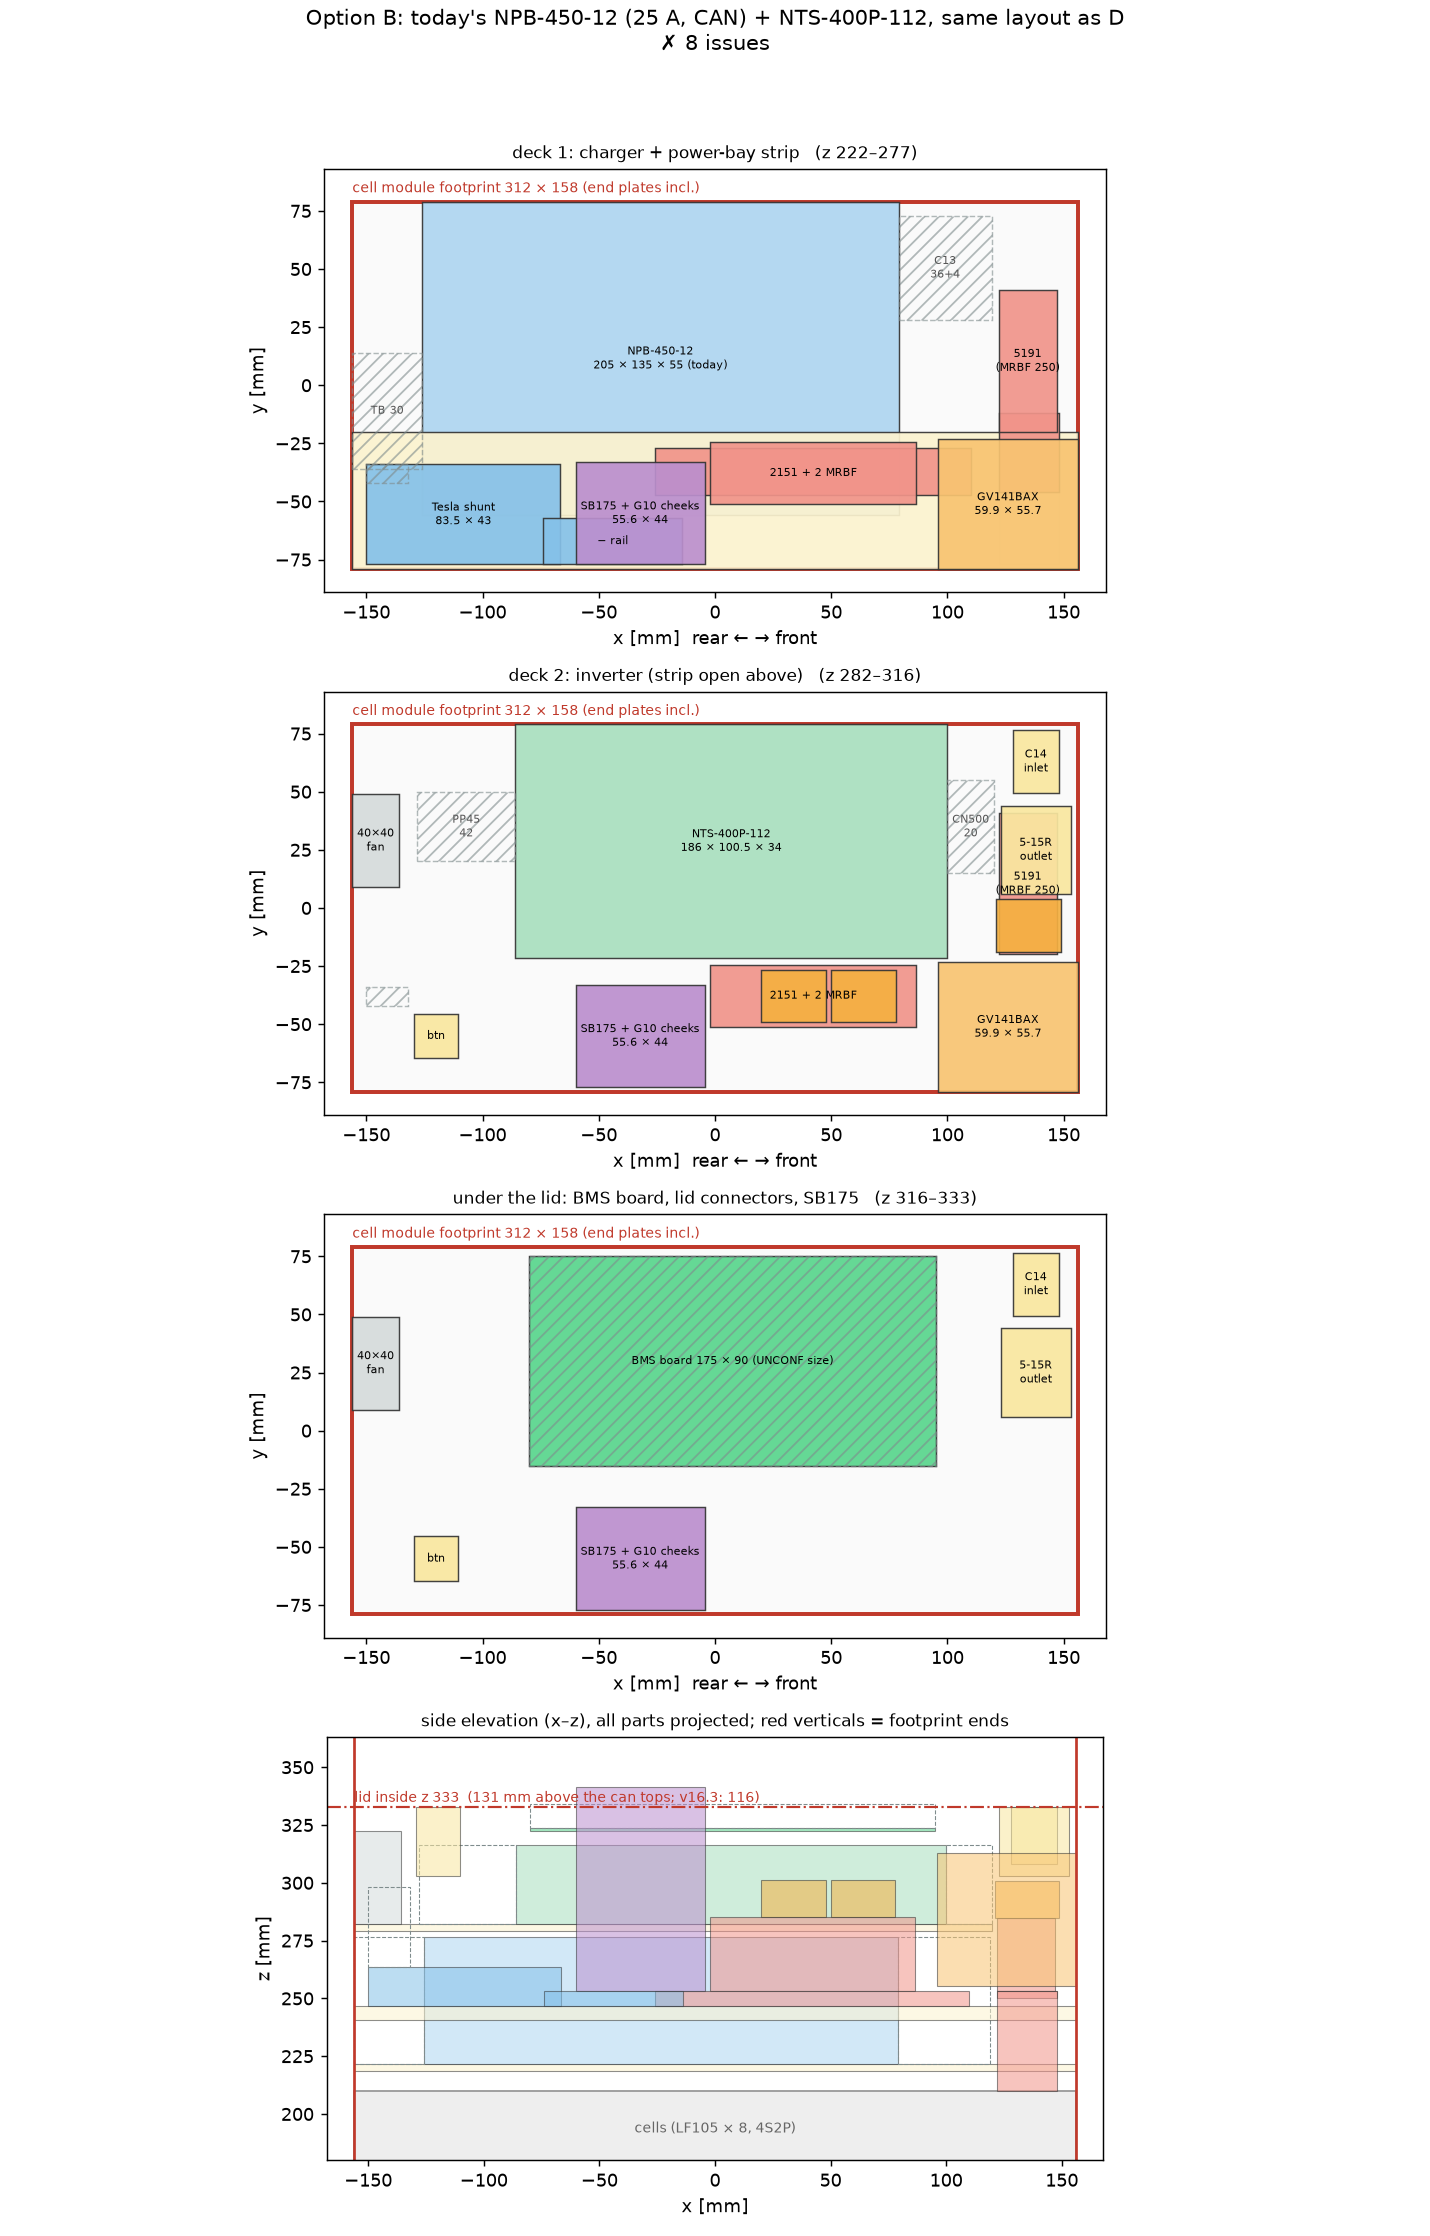
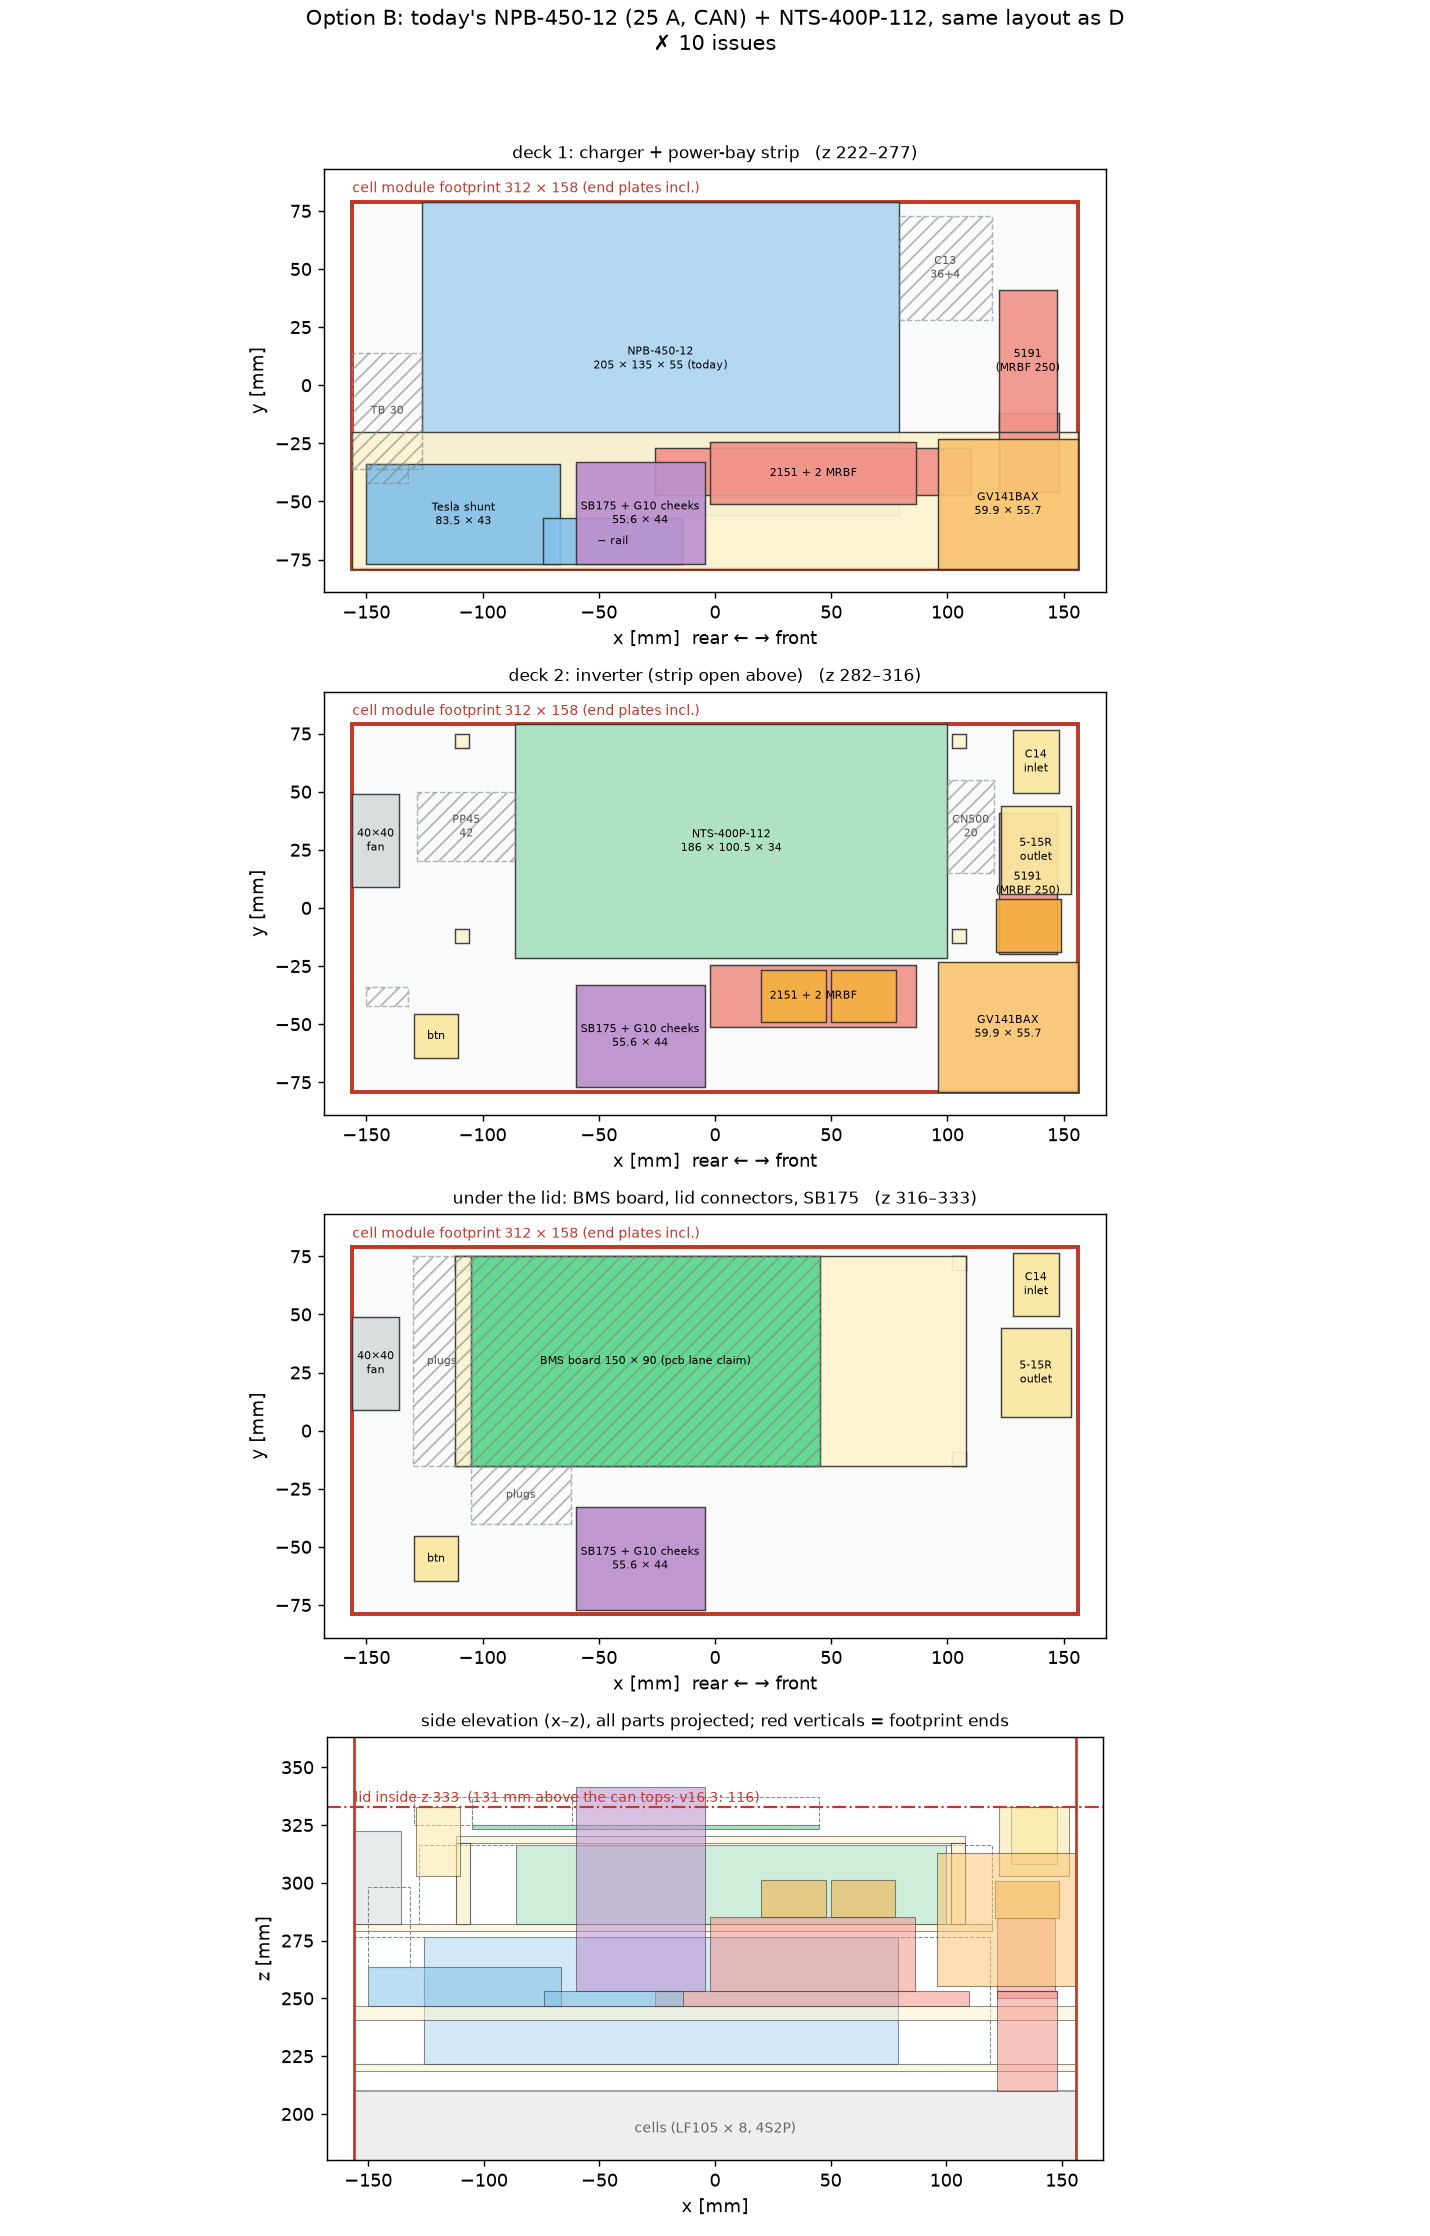
main-battery: spec/interface.md started; accept pcb BMS space claim (150x90 on a G10 bridge over the inverter), packing re-checked 0 issues
Claude-Session: https://claude.ai/code/session_019xZm2LfCuiMwG9xRrujpys

diff --git a/cad/analysis/converter_packing.py b/cad/analysis/converter_packing.py
@@ -165,9 +165,18 @@ def opt_D(chg=("chg_npb360", 182.7, 96.0, 49.0, "NPB-360-12TB\n182.7 × 96 × 49
     p.append(B("fan_inv_4020", -156, -136, 9, 49, z2, z2 + 40, "fan", "40×40\nfan"))
     p.append(B("keep_inv_cn500", 100, 120, 15, 55, z2, z2 + 34, "keep", "CN500\n20"))
     # separate BMS board, flat over the inverter on 6 mm standoffs, parts <= 10 mm
-    zb = z2 + 34 + 6
-    p.append(B("bms_board", -80, 95, -15, 75, zb, zb + 1.6, "bms", "BMS board 175 × 90 (UNCONF size)"))
-    p.append(B("keep_bms_parts", -80, 95, -15, 75, zb + 1.6, zb + 11.6, "keep", None))
+    # pcb lane space claim 2026-11-27 (spec/requests/pcb-bms-space-claim.md): 150 x 90, top <= 12 mm incl. mated plugs,
+    # 25 mm right-angle plug room beyond -x, and beyond -y for x -105..-62. Carried by a G10 .125 bridge over the inverter
+    # (no holes in the NTS-400P), the bridge on 4 posts standing on deck 2 beyond the inverter's ends.
+    zr = z2 + 34 + 1.0
+    p.append(B("g10_bms_bridge", -112, 108, -15, 75, zr, zr + G10, "g10", None))
+    for i, (x, y) in enumerate(((-109, -12), (-109, 72), (105, -12), (105, 72))):   # M3 standoffs at the bridge corners
+        p.append(B(f"bms_post_{i}", x - 3, x + 3, y - 3, y + 3, z2, zr, "g10", None))
+    zb = zr + G10 + 3.0
+    p.append(B("bms_board", -105, 45, -15, 75, zb, zb + 1.6, "bms", "BMS board 150 × 90 (pcb lane claim)"))
+    p.append(B("keep_bms_parts", -105, 45, -15, 75, zb + 1.6, zb + 13.6, "keep", None))
+    p.append(B("keep_bms_plugs_x", -130, -105, -15, 75, zb + 1.6, zb + 13.6, "keep", "plugs"))
+    p.append(B("keep_bms_plugs_y", -105, -62, -40, -15, zb + 1.6, zb + 13.6, "keep", "plugs"))
     # power bay strip (y -79 .. -20)
     p += bay_strip(-20.0, zp1, 156, lid)
     # GV14 (body 59.9 x 55.7, flange 72.5) and the 5191 on the + riser in the front corner
@@ -185,7 +194,7 @@ def opt_D(chg=("chg_npb360", 182.7, 96.0, 49.0, "NPB-360-12TB\n182.7 × 96 × 49
                        ("rail_pos", "sb175"), ("rail_pos", "bs2151"), ("g10_deck1", "pos_riser"), ("g10_bayplate", "pos_riser"),
                        ("keep_chg", "chg_"), ("keep_inv", "inv_"), ("bms_board", "keep_bms"), ("bs2151_fuse", "bs2151"), ("bs5191_fuse", "bs5191"),
                        ("keep_inv_pp45", "fan_"), ("rail_pos", "ct_"), ("g10_bayplate", "ct_"), ("pos_riser", "bs5191"), ("ct_", "bs5191"),
-                       ("sb175", "lid_"), ("g10_deck1", "keep_"), ("g10_deck2", "keep_inv"), ("pos_inbar", "pos_riser"), ("pos_inbar", "bs5191"),
+                       ("sb175", "lid_"), ("g10_deck1", "keep_"), ("g10_deck2", "keep_inv"), ("bms_post", "g10_deck2"), ("bms_post", "g10_bms"), ("g10_bms_bridge", "keep_"), ("pos_inbar", "pos_riser"), ("pos_inbar", "bs5191"),
                        ("pos_inbar", "ct_"), ("pos_riser", "ct_"), ("rail_pos", "pos_inbar"), ("g10_bayplate", "pos_inbar"), ("g10_bayplate", "bs5191")])
 
 def opt_B():

diff --git a/spec/interface.md b/spec/interface.md
@@ -1,0 +1,57 @@
+# Interface spec: shared numbers (owner: main-battery)
+
+Single source of truth for numbers that more than one lane uses. Only `main-battery` edits this file. Others file `spec/requests/<lane>-<name>.md` and message `main-battery`. ⚠ marks unconfirmed values. Started 2026-11-27 from v16.3 + D39 (option D).
+
+## 1. Pack
+| Item | Value | Ref |
+|---|---|---|
+| Cells | 8 × EVE LF105, **4S2P**, 12.8 V nominal, 210 Ah, 2.69 kWh | cells.md |
+| Voltage window | 10.0–14.6 V; charge CV **14.2 V**, 2-stage, charge inhibit < 2 ℃ | v14-baseline |
+| UV ladder (per cell) | 2.90 firmware off → 2.80 BQ UV → 2.75 inverter off (firmware, via remote) → 2.60 BQ SHUTDOWN | v14-baseline |
+| DC out | SB175 on the lid, **175 A** continuous; hardware 500 A / 30 s, firmware-limited to EVE rev E Tables 12–13 | D37 |
+| Main fuse | MRBF 250 A in Blue Sea 5191 | power-train.md |
+| Branch fuses | MRBF on Blue Sea 2151: inverter **50 A**, charger **30 A** | converters.md §4 |
+| Contactor | Gigavac GV141BAX (GV14), coil 12 V, 3.9 A pick-up ⚠, 0.23 A hold (2.8 W) | contactor-mounting.md |
+| Shunt | Tesla 1016792-00-C, low side; board ground at node A | tesla-shunt.md |
+
+## 2. Converters (D39, 2026-11-27)
+| Item | Value | Ref |
+|---|---|---|
+| Charger | MEAN WELL **NPB-360-12TB**: 20 A, CV set to 14.2 V by VR, 2-stage by DIP. **No remote, no CAN** | converters.md |
+| Charger stop | **Normally-open DC relay in the charger + lead**, coil driven by the BMS; closed only after the GV14 is closed. Part ⚠ TBD (catalog, chassis-mounted, ≥ 20 A DC, rated for closing onto the charger's output capacitors) | D39 |
+| Inverter | MEAN WELL **NTS-400P-112**: 400 W, 120 V 60 Hz, power-saving DIP SW4 on; remote off = dry contact on CN301 (relay or PhotoMOS) | NTS-400P-SPEC 2026-03-26 |
+| Inverter fan | 40 × 40 × 20, 10 CFM, on the inverter's own CN100 (not a BMS output) | cooling.md, converters.md |
+| Pack fan | **none** (NF-A14 dropped) ⚠ pending the cooling re-run | converters.md §4 |
+
+## 3. Envelope
+| Item | Value | Ref |
+|---|---|---|
+| Footprint for everything above the cells | **x ±156, y ±79** (module incl. end plates, 312 × 158) | owner-req §3 |
+| Lid inside | **z 333** (can tops z 201.85) | converters.md §3 |
+| Deck 1 / deck 2 tops | z 221.6 / 276.3 | converter_packing.py |
+| Power-bay strip | y −79…−20, the full length, open to the lid (fuse lift-out) | converters.md §3 |
+
+## 4. BMS board (pcb lane)
+**Scope (Chris, 2026-11-27):**
+- BQ76952: 5 flex taps, 6 NTCs, balancing, protection;
+- ESP32-S3-WROOM-1U (18 × 19.2 mm ⚠) with Wi-Fi;
+- Tesla shunt SPI (TXU0104, 5 V supply);
+- GV14 coil driver, enabled by ESP32 **AND** BQ in hardware;
+- precharge relay + 10 Ω / 10 W between the B+ and LOAD+ taps;
+- inverter remote off;
+- charger-relay coil driver;
+- 2 A fused pack tap → 5 V buck → 3.3 V, SHUTDOWN ≈ 7 µA, UV latch;
+- IMD divider;
+- lid button and LED-board link.
+
+No power current on the board. The CAN transceiver and the pack-fan header are dropped.
+
+| Item | Value | Ref |
+|---|---|---|
+| Size | **150 × 90 × 1.6 mm** ⚠ estimate (no schematic yet) | spec/requests/pcb-bms-space-claim.md (accepted 2026-11-27) |
+| Position | x −105…45, y −15…75, flat over the inverter | same |
+| Height | Top parts ≤ 12 mm incl. mated plugs; no bottom parts; THT tails ≤ 2.5 mm | same |
+| Mounting | 4 × M3, 5 mm in from the edges, on **3 mm standoffs** on a **G10 .125 bridge** (SCS) spanning the inverter. The bridge stands on 4 M3 posts on deck 2 beyond the inverter's ends (x −109, +105; y −12, +72). Board underside z 317.5, parts top z 331.1, 1.9 mm under the lid. Nothing touches the NTS-400P | converter_packing.py (0 issues) |
+| Plug room | 25 mm beyond the −x edge, and beyond the −y edge for x −105…−62 | pcb claim |
+| Antenna | U.FL coax from the WROOM-1U to a flex antenna behind the clear acrylic light-pipe slot in the front plate, as in v16; ≈ 150–200 mm coax ⚠. The lid and shell are aluminium, so a PCB antenna under the lid won't radiate | signal-wiring.md |
+| Taps | B+ = in-bar after the main fuse, before the GV14; LOAD+ = 2151 inverter-fuse stud. 18 AWG, 2 A ATM inline fuse at each copper end | signal-wiring.md §3b–3d |

diff --git a/lanes/main-battery/STATUS.md b/lanes/main-battery/STATUS.md
@@ -5,8 +5,9 @@
   - Recommendation **D: NPB-360-12TB (20 A) + NTS-400P-112 + its 40 mm fan**, bay strip on −y, BMS over the inverter. 0 issues, lid z 333 (+15 mm vs v16.3), ≈ 17.6 L vs 25.2 L.
   - Combined unit: none fits (MultiPlus 12/500/20 only upright, lid ≈ 590). RPB-1600 rejected: 338 mm with its DC tabs.
   - Root cause: the NPB-450's 135 mm width (bay strip needs ≥ 59 mm → converters ≤ 96 wide).
-- **Blockers / waiting on:** pcb lane for a BMS board area estimate (scope confirmed by Chris).
-- **Next step:** spec/interface.md (shared numbers incl. BMS scope and space claim), then CAD `tower17.py` for option D.
+- **Blockers / waiting on:** none.
+- **Next step:** CAD `tower17.py` for option D (fix CTRL WROOM-1U to 18 × 19.2 per pcb), then the interference, clearance and assembly checks, fast renders, cooling re-run and BOM/SCS total.
+- **spec/interface.md** created 2026-11-27; pcb BMS space claim accepted (150 × 90, G10 bridge over the inverter).
 - **Key decisions so far (with reasons):**
   - Cells are the dominant constraint: nothing goes outside the module footprint (Chris).
   - Separate BMS board; the front zone is for the LED board only (Chris).

diff --git a/docs/converters.md b/docs/converters.md
@@ -110,7 +110,7 @@ So the strip is **≥ 59 mm**, which leaves **≤ 96 mm of width for the convert
   - MEAN WELL's 40 × 40 × 20 fan at the rear wall, 50 mm from the DC face (its rated condition), drawing air in through the rear grid;
   - CN500 at the front.
 - **Under the lid:**
-  - BMS board 175 × 90 ⚠ (size to be confirmed by the pcb lane) on 6 mm standoffs over the inverter;
+  - BMS board 150 × 90 (pcb lane claim, 2026-11-27) on a G10 .125 bridge over the inverter (4 corner posts on deck 2, nothing touches the NTS-400P); parts top z 331.1;
   - C14 inlet and NEMA outlet above the front corner, next to the charger's C14 and the inverter's CN500 (short AC runs);
   - button at the rear;
   - SB175 through the lid over the strip (mating face 8.4 mm above the lid top, as in C1).
